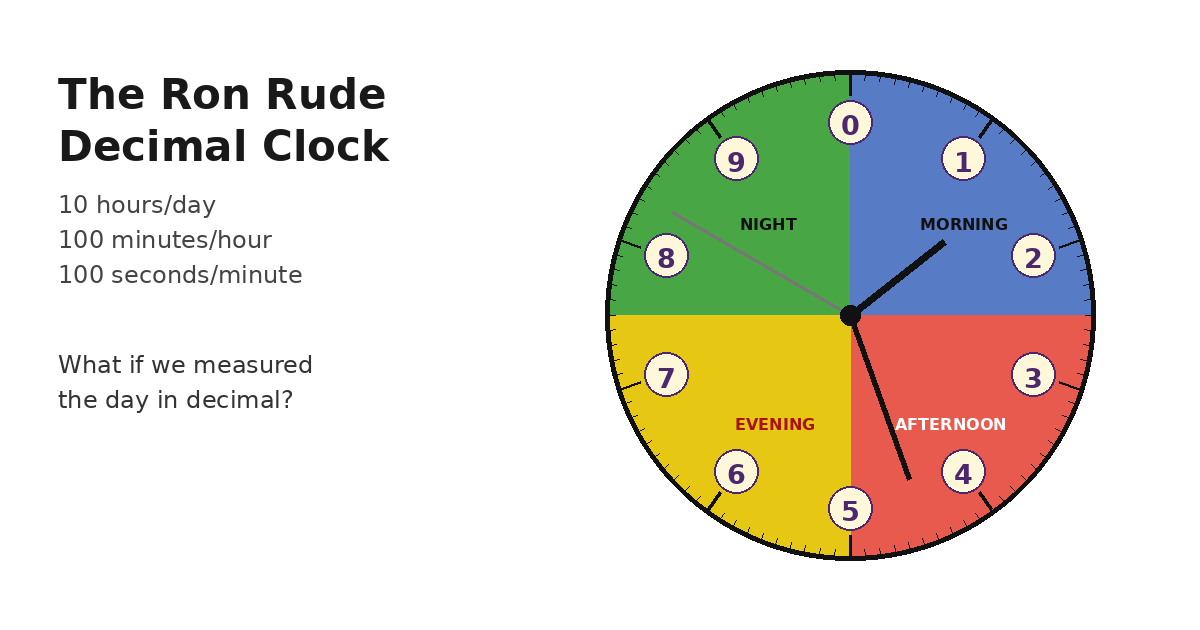
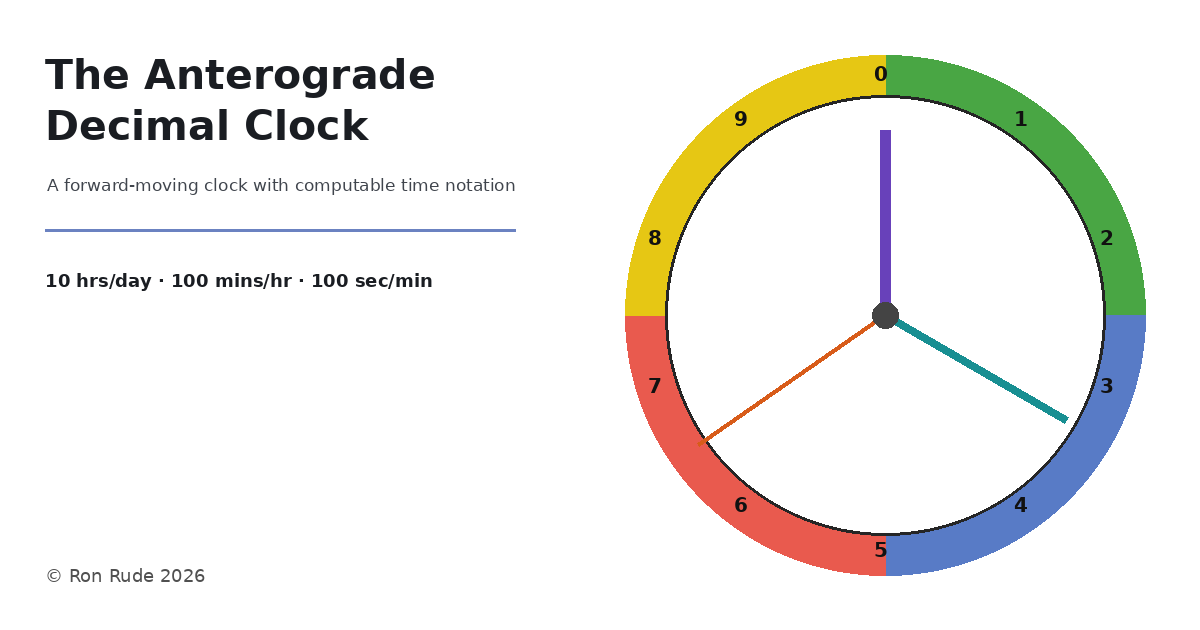
Add files via upload

diff --git a/anterograde/index.html b/anterograde/index.html
@@ -8,7 +8,7 @@
 <meta property="og:type" content="website">
 <meta property="og:site_name" content="The Anterograde Decimal Clock">
 <meta property="og:title" content="The Anterograde Decimal Clock">
-<meta property="og:description" content="What if we measured the day in decimal? Explore a live decimal clock with four coloured day-period quadrants.">
+<meta property="og:description" content="A forward-moving clock with computable time notation · 10 hrs/day · 100 mins/hr · 100 sec/min.">
 <meta property="og:url" content="https://ron-rude.github.io/anterograde/">
 <meta property="og:image" content="https://ron-rude.github.io/anterograde/anterograde_clock_preview.png">
 <meta property="og:image:secure_url" content="https://ron-rude.github.io/anterograde/anterograde_clock_preview.png">
@@ -84,7 +84,7 @@
 <body>
   <div class="topbar">
     <header class="toolbar">
-      <div class="brand">The Anterograde Decimal Clock<small>© Ron Rude 2026</small><small>10hrs/day, 100mins/hr, 100sec/min</small></div>
+      <div class="brand">The Anterograde Decimal Clock<small>A forward-moving clock with computable time notation</small><small>© Ron Rude 2026</small><small>10 hrs/day · 100 mins/hr · 100 sec/min</small></div>
       <div class="controls">
         <button id="labelsBtn" type="button" aria-pressed="true">Hide numerals</button>
       </div>
